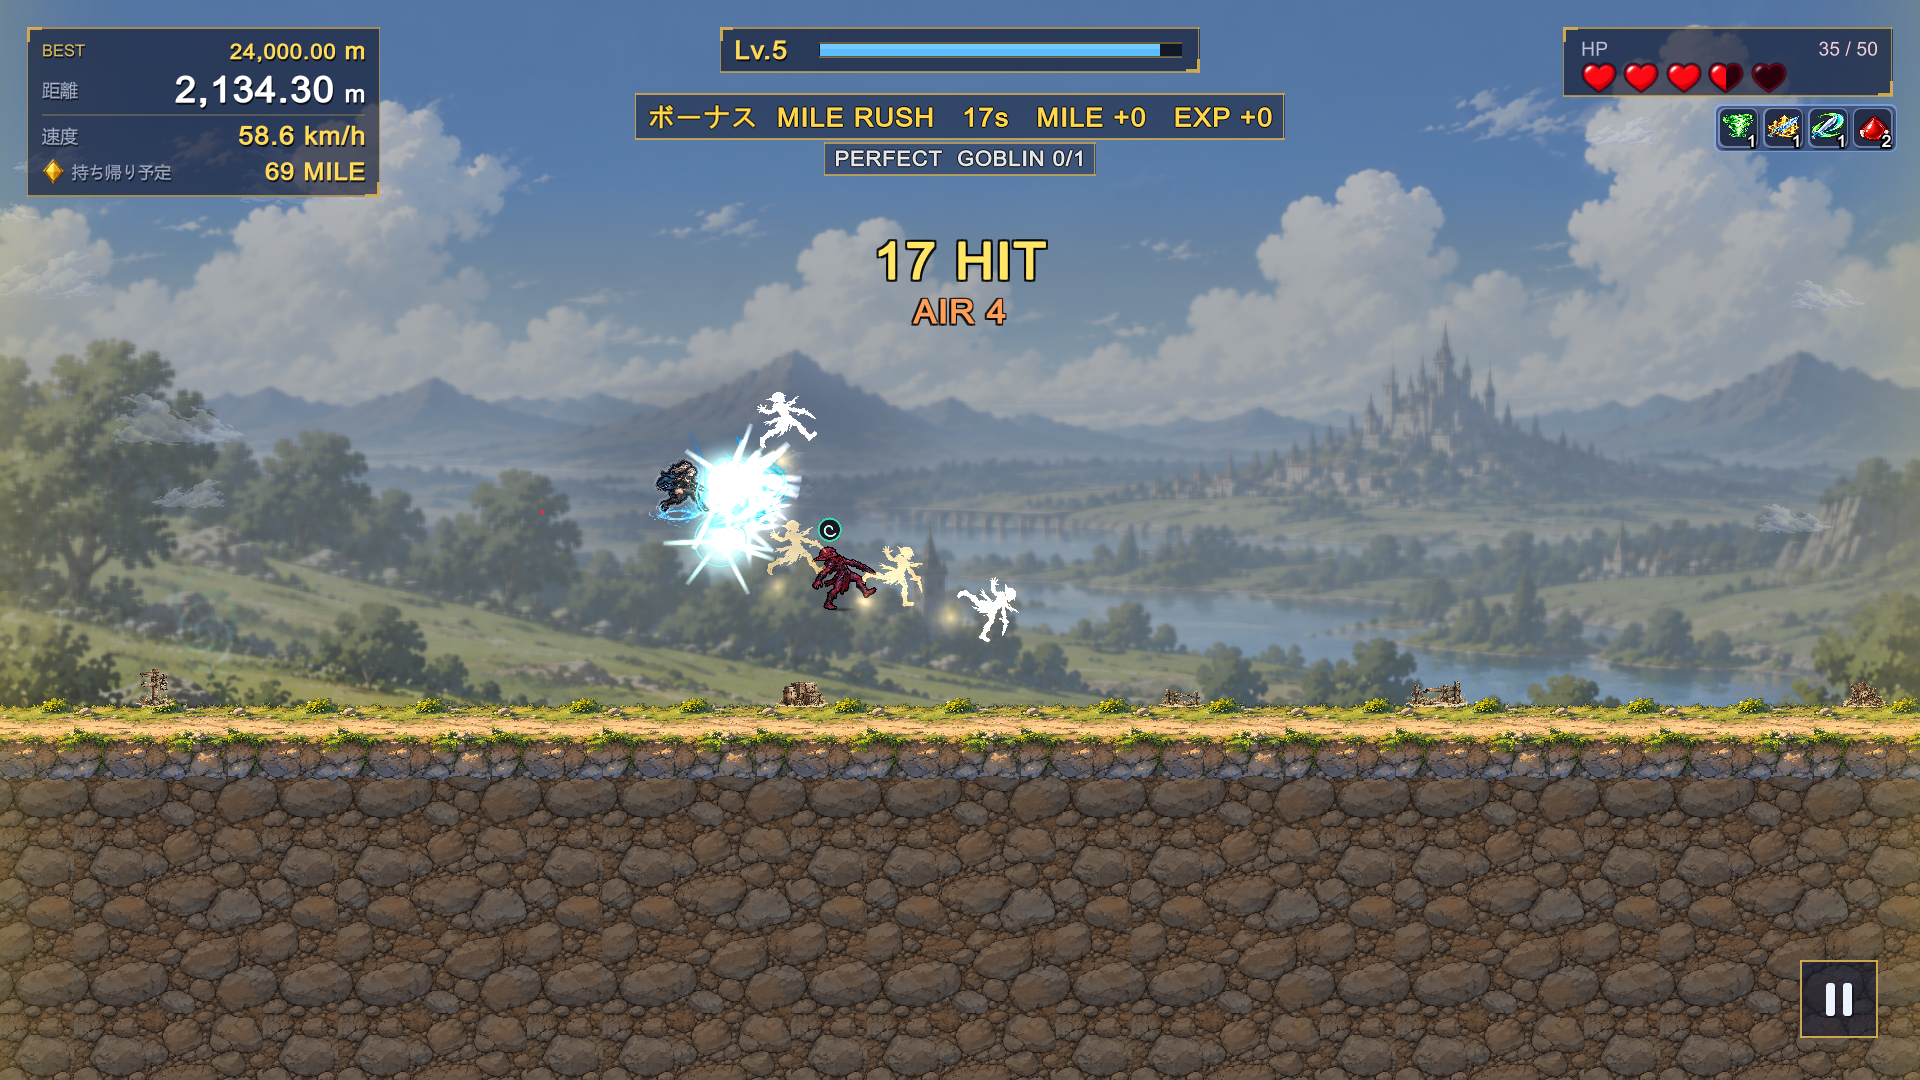
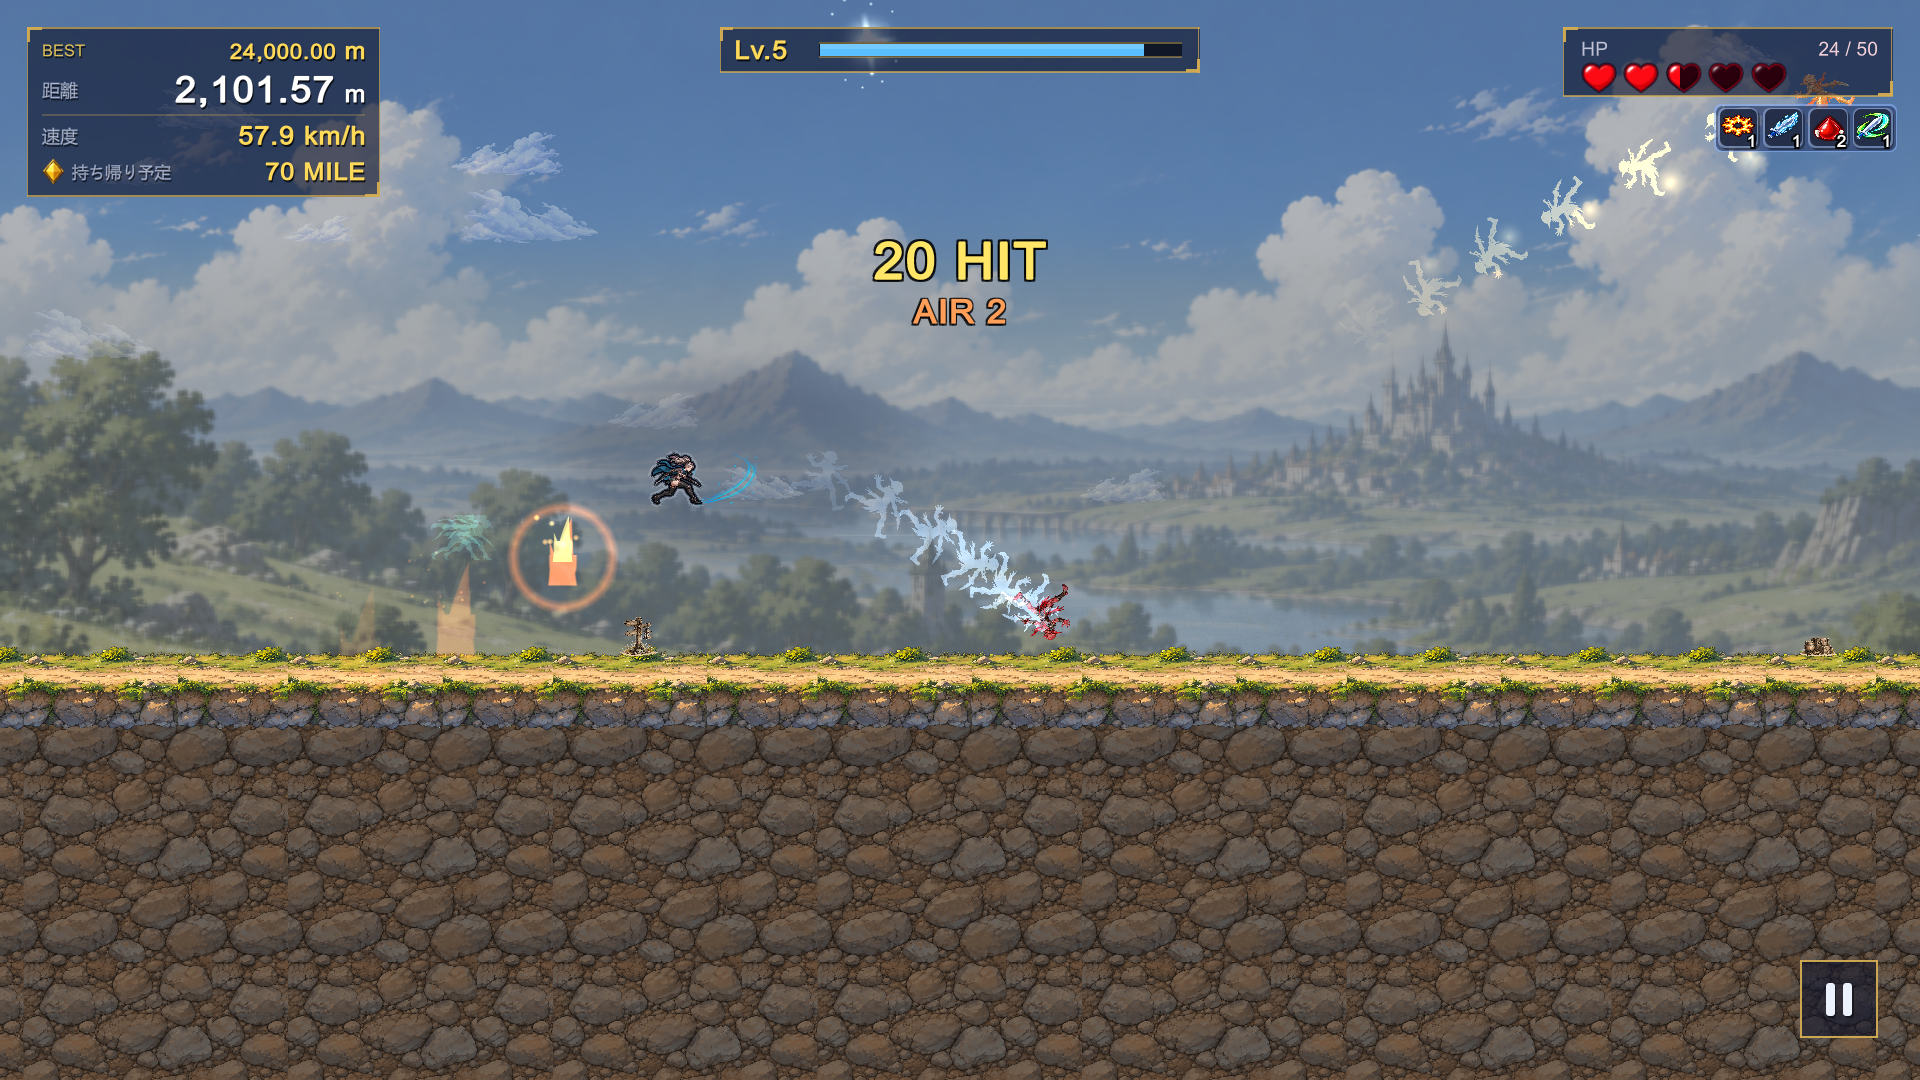
Google Play 素材 最終版の候補(第3回): 字幕の修正・BONUS の無い撮り直し・6枚目の提案
- 紹介動画: 「4方向のフリックで戦え / Swipe in four directions to fight.」、英語の脱出は Cash out を避ける(captions_gp.tsv、Steam 版の表はそのまま)。長い字幕は幅に収める(trailer.py)
- 撮影 -scNoBonus 1(BONUS ZONE を起こさない)で空中コンボと操作説明を撮り直し、スクショ3枚目も差し替え
- ショート: 英語字幕を指定どおりに、冒頭に「映像を拡大しています」、最後に「技はキャラクターによって異なります」、音を -14 LUFS に
- 6枚目は小さい表示で読みやすい RESULT を提案して差し替え(説明の画面は予備へ)
- 動画は 100MB を超えるためコミットしない(Docs/GooglePlay_2026-11-01/video に置く)

diff --git a/Tools/googleplay/short.py b/Tools/googleplay/short.py
@@ -4,6 +4,7 @@
 #  ・映像: 縦の窓(608x1080)を 4倍で撮った 2432x4320 から、キャラの周りを切り出して 1080x1920 へ(ゲームのカメラは変えない。表示の拡大だけ)
 #  ・打ち上げ/急降下は 0.6倍、空中コンボは 0.4倍のスロー(その間はゲームの音を消し、BGM だけ)
 #  ・指とフリックの矢印(gesture.py の絵)、字幕(captions_short.tsv)、最後にロゴ(タイトルと同じ TitleLogoV2)は映像に後から重ねる。ゲームには描かない
+#  ・冒頭 4 秒に「映像を拡大している」注記、最後に「技はキャラクターによって異なる」(2026-11-01 エステル/マスターのレビュー)
 #  ・音: ゲームの効果音 + BGM(権利を確認済みの自作曲)→ -14 LUFS、真のピーク -1.2 dBTP 以下(Tools/steam/finalize_audio.py)
 #   python short.py <撮影のフォルダ(out/raw と log.txt がある)> <ja|en> <出力.mp4> <作業フォルダ>
 import csv, io, os, re, subprocess, sys
@@ -39,8 +40,10 @@ def flicks(log):
 
 def caption_layer(text, sub=None):
     img = Image.new("RGBA", (OW, OH), (0, 0, 0, 0)); d = ImageDraw.Draw(img)
-    f = font(72 if len(text) <= 14 else 60)
     lines = text.split("\\n")
+    size = 72
+    while size > 40 and max(ImageDraw.Draw(img).textlength(ln, font=font(size)) for ln in lines) > OW - 140: size -= 2  # 入りきらない(英語)時は縮める
+    f = font(size)
     y = 250
     for ln in lines:
         tw = d.textlength(ln, font=f)
@@ -51,7 +54,16 @@ def caption_layer(text, sub=None):
     return img
 
 
-def end_layer(text, a):
+def note_layer(text):
+    # 冒頭に小さく出す注記(映像を拡大していること)。画面の下、暗い帯の上
+    img = Image.new("RGBA", (OW, OH), (0, 0, 0, 0)); d = ImageDraw.Draw(img); f = font(34)
+    tw = d.textlength(text, font=f)
+    d.rounded_rectangle([(OW - tw) / 2 - 22, OH - 186, (OW + tw) / 2 + 22, OH - 120], radius=12, fill=(5, 8, 20, 160))
+    d.text(((OW - tw) / 2, OH - 178), text, font=f, fill=(235, 235, 240, 255))
+    return img
+
+
+def end_layer(text, a, sub=None):
     img = Image.new("RGBA", (OW, OH), (5, 8, 20, int(200 * a)))
     logo = Image.open(LOGO).convert("RGBA")
     lw = int(OW * 0.86); lh = int(logo.height * lw / logo.width)
@@ -61,6 +73,9 @@ def end_layer(text, a):
     d = ImageDraw.Draw(img); f = font(64)
     tw = d.textlength(text, font=f)
     d.text(((OW - tw) / 2, int(OH * 0.36) + lh // 2 + 70), text, font=f, fill=(255, 255, 255, int(255 * a)), stroke_width=4, stroke_fill=(10, 12, 24, int(255 * a)))
+    if sub:  # 2026-11-01: 技はキャラクターによって異なる、を短く小さく
+        fs = font(38); sw = d.textlength(sub, font=fs)
+        d.text(((OW - sw) / 2, int(OH * 0.36) + lh // 2 + 190), sub, font=fs, fill=(225, 225, 232, int(235 * a)))
     return img
 
 
@@ -124,11 +139,16 @@ def main():
         key = next((k for a, b, k in starts if a <= tt < b), "end")
         if key == "end":
             a0 = next(a for a, b, k in starts if k == "end")
-            img.alpha_composite(end_layer(T("cap_end"), min(1.0, (tt - a0) / 0.5)))
+            img.alpha_composite(end_layer(T("cap_end"), min(1.0, (tt - a0) / 0.5), T("cap_moves")))
         else:
             ck = {"run": "cap_run", "fwd": "cap_fwd", "back": "cap_back", "up": "cap_up", "combo": "cap_combo", "down": "cap_down"}[key]
             if ck not in cap_cache: cap_cache[ck] = caption_layer(T(ck))
             img.alpha_composite(cap_cache[ck])
+            if tt < 4.0:  # 冒頭の 4 秒: 映像を拡大している旨
+                if "note" not in cap_cache: cap_cache["note"] = note_layer(T("cap_zoom"))
+                nl = cap_cache["note"]
+                if tt > 3.5: nl = nl.copy(); nl.putalpha(nl.getchannel("A").point(lambda v, f=(4.0 - tt) / 0.5: int(v * f)))
+                img.alpha_composite(nl)
             for d, gt in gestures:
                 if gt is None: continue
                 k = int((tt - gt) * FPS)
@@ -146,9 +166,17 @@ def main():
         else: af.append(f"anullsrc=r=48000:cl=stereo,atrim=duration={(b - a) / sp:.4f}[a{i}]")
     af.append("".join(f"[a{i}]" for i in range(len(segs))) + f"concat=n={len(segs)}:v=0:a=1,aformat=sample_rates=48000:channel_layouts=stereo[se]")
     af.append(f"[2:a]atrim=duration={total:.3f},volume=0.36,afade=t=in:d=0.2,afade=t=out:st={total - 1.6:.3f}:d=1.6,aformat=sample_rates=48000:channel_layouts=stereo[bgm]")
-    af.append("[se][bgm]amix=inputs=2:normalize=0,loudnorm=I=-14:TP=-2:LRA=11[aout]")
     mix = os.path.join(work, f"mix_{lang}.wav")
-    subprocess.run([FF, "-y", "-loglevel", "error", "-i", base, "-i", raw + ".wav", "-stream_loop", "-1", "-i", BGM, "-filter_complex", ";".join(af), "-map", "[aout]", "-ar", "48000", mix], check=True)
+    # 音の大きさ: 紹介動画(trailer.py)と同じく、測ってから全体の音量を上げ下げ → 4倍の細かさで見るリミッター(-14 LUFS に合わせる)
+    def render_mix(gain_db):
+        chain = af + [f"[se][bgm]amix=inputs=2:normalize=0,volume={gain_db:.2f}dB,aresample=192000,alimiter=limit=0.79:attack=1:release=60:level=false,aresample=48000[aout]"]
+        subprocess.run([FF, "-y", "-loglevel", "error", "-i", base, "-i", raw + ".wav", "-stream_loop", "-1", "-i", BGM, "-filter_complex", ";".join(chain), "-map", "[aout]", "-ar", "48000", mix], check=True)
+        r = subprocess.run([FF, "-hide_banner", "-i", mix, "-af", "ebur128=framelog=quiet", "-f", "null", "-"], capture_output=True, text=True, encoding="utf-8", errors="replace")
+        return float(r.stderr[r.stderr.rindex("Summary:"):].split("I:")[1].split("LUFS")[0])
+    g = 0.0
+    for _ in range(3):
+        g += -14.0 - render_mix(g)
+    print(f"[short] mix gain {g:.2f} dB -> {render_mix(g):.2f} LUFS")
 
     # 4) 合わせる
     tmp = os.path.join(work, f"short_{lang}_tmp.mp4")

diff --git a/Unity/2ndAction/Assets/Scripts/QaSweep.StoreCapture.cs b/Unity/2ndAction/Assets/Scripts/QaSweep.StoreCapture.cs
@@ -51,6 +51,9 @@ public partial class QaSweep
         // 2026-11-01 Google Play の動画: 画面情報の表示モード(-scHud simple|standard)。撮影用の保存にだけ書く
         string hud = Arg("-scHud", "");
         if (hud == "simple") HudPrefs.SetMode(HudPrefs.Mode.Simple); else if (hud == "standard") HudPrefs.SetMode(HudPrefs.Mode.Standard);
+        // 2026-11-01 Google Play の最終版(エステルのレビュー): -scNoBonus 1 = この撮影では BONUS ZONE を自然発生させない
+        //  (空中コンボ/操作説明の場面に BONUS の帯が写らないように。BONUS が起きない区間は通常のプレイでもある = 仕様は変えない)
+        if (Arg("-scNoBonus", "0") == "1") { BonusZone.BlockedAt = _ => true; L("[capture] bonus zones blocked for this capture"); }
         L($"[capture] screen {Screen.width}x{Screen.height} lang={Loc.Current} debugBuild={Debug.isDebugBuild} devGate={DevGate.On} audio {AudioSettings.outputSampleRate}Hz {AudioSettings.speakerMode}");
         if (Screen.height > Screen.width) L($"[capture] portrait window {Screen.width}x{Screen.height} (video x{Arg("-scVideoSuper", "1")})"); // 2026-11-01 操作説明ショート(縦)
         else Check(Screen.width == 1920 && Screen.height == 1080, $"the screen is 1920x1080 (got {Screen.width}x{Screen.height})");

diff --git a/Tools/steam/trailer.py b/Tools/steam/trailer.py
@@ -52,6 +52,9 @@ def caption_png(text, path, pos="bottom"):
     f = font(80)  # 2026-10-23 エステル: Steam の小さい再生画面(600px 前後)でも読める大きさに(64 → 80)
     d = ImageDraw.Draw(img)
     x, y = 96, H - 196
+    tw = d.textlength(text, font=f)
+    if tw > W - 2 * x:  # 2026-11-01: 画面の幅に入りきらない長い字幕(英語)だけ、入る大きさまで縮める
+        f = font(int(80 * (W - 2 * x) / tw))
     if pos == "band":
         # 2026-10-24 エステル: 設定の画面の上に出す字幕は、位置は同じ(左下)のまま、字幕の後ろに濃い帯を敷く(字の高さ+上下 12〜16px)
         l, t, r, b2 = d.textbbox((x, y), text, font=f, stroke_width=5)

diff --git a/Docs/GooglePlay_2026-11-01/round3/for_estelle_round3.md b/Docs/GooglePlay_2026-11-01/round3/for_estelle_round3.md
@@ -1,0 +1,74 @@
+# エステルへ: Google Play 素材 最終版の候補(レビュー第3回、2026-11-01 夜)
+
+第2回のレビュー(マスターとエステルの指定)を反映した、最終版の候補です。ゲーム画面と操作の仕様は変えていません。変えたのは、撮影の場面の選び方と字幕だけです。公開は保留のままです。
+
+## 1. 紹介動画 40秒(横 1920x1080・60fps)
+- 動画: `Docs/GooglePlay_2026-11-01/video/omm_gp_promo40_final_{ja,en}.mp4`
+  - 確認用の軽い版(30fps): `..._review.mp4`
+- 2秒ごとの一覧: `promo40_grid_ja.jpg` / `promo40_grid_en.jpg`
+- 全体の構成と尺(40.0秒)は第2回のままです。
+- 変えた所:
+  - 4方向の字幕: 「4方向のフリックで戦え」/「Swipe in four directions to fight.」
+  - 脱出の英語の字幕: 「Escape with your rewards—or run one more mile?」(Cash out は使いません)
+    - 画面の幅に入りきらないので、この字幕だけ文字を少し小さくしています。
+  - 空中コンボの場面: BONUS ZONE の帯が写らない撮影に差し替えました。
+    - 撮影の時だけ BONUS ZONE を起こさない設定にしています。BONUS が起きない区間は通常のプレイでもあります。
+    - 日本語は 20 HIT、英語は 16 HIT まで写っています。
+- 字幕の表は `video/captions_gp.tsv` です。Steam 版の表(エステル採用)を写して、上の2つだけ変えました。Steam 版の表は変えていません。
+- そのほか(字幕・BGM・ロゴ・HUD の使い分け)は第2回のままです。
+- 音の大きさ: -14.1 LUFS、真のピーク(日)-1.5 / (英)-1.8 dBTP
+
+## 2. 操作説明ショート 20.2秒(縦 1080x1920・60fps)
+- 動画: `video/omm_gp_short20_final_{ja,en}.mp4`(軽い版は `_review.mp4`)
+- 一覧: `short_grid_ja.jpg` / `short_grid_en.jpg`
+- 長さは 20.2秒のままです。
+- 英語の字幕は、指定どおりに統一しました。
+
+  | 秒 | 英語 |
+  |---|---|
+  | 0〜2 | Your character runs automatically. |
+  | 2〜5 | Swipe forward: Attack ahead |
+  | 5〜7 | Swipe back: Attack behind |
+  | 7〜9 | Swipe up: Jump / Launch enemies |
+  | 9〜14 | Keep hitting to build combos |
+  | 14〜17 | Swipe down: Dive while airborne |
+  | 17〜20 | How far will you go? |
+
+- 追加したこと:
+  - 最後のロゴの下に、小さく「技はキャラクターによって異なります / Moves vary by character.」
+  - 冒頭の4秒、画面の下に小さく「※操作説明のため、映像を拡大しています / Footage zoomed in to show the controls」(**英語は仮訳**)
+  - BONUS の表示(英語の BONUS MIMIC BASH を含む)が写らない撮影に、日英とも差し替えました。
+- 音の大きさ: -14.0〜-14.2 LUFS(第2回の -15.3 から、紹介動画と同じ大きさにそろえました)、真のピーク -1.4〜-1.6 dBTP
+
+## 3. スクリーンショット(日英 8枚)
+- 一覧: `GooglePlay/StoreScreenshots_2026-11-01/contact_sheet_landscape_{ja,en}.jpg`
+
+| # | 状態 |
+|---|---|
+| 1, 2, 4, 5, 7 | 第1回のまま(採用) |
+| 3 空中コンボ | BONUS の帯が無い撮り直しに差し替え(日: 20 HIT / AIR 2、英: 15 HIT / AIR 4)。変更前後: `compare_03_aerial.jpg` |
+| 6 脱出 | **提案: RESULT「脱出成功! / ESCAPED!」に差し替え**(下の説明) |
+| 8 キャラ選択 | 第2回の Android 版の幻想画(採用) |
+
+### 6枚目の提案
+- 比較: `compare_06_small.jpg`(Google Play の小さい表示に近い幅 480px / 320px で並べた物)
+- 説明の画面(A)は、幅 320px では本文がほとんど読めません。目に入るのは小さい見出しと板の形だけです。
+- RESULT(B)は、幅 320px でも次が読めます。
+  - 「脱出成功! / ESCAPED!」
+  - 距離「30,827 m」
+  - 持ち帰った「+1,019 / +1,013 MILE」
+  - 強化カードの並び
+- 「走って、持ち帰る」がひと目で伝わるので、**B を提案します**。いまは B を `06_EscapeResult.png` に入れてあります。
+- A は `landscape/{ja,en}_alt/alt_EscapeGuide.png` に残してあり、すぐ戻せます。
+
+## 4. 確認してほしい所
+1. 6枚目を B(RESULT)にしてよいか。
+2. ショート冒頭の注記の英語(仮訳)「Footage zoomed in to show the controls」。
+3. 最終版として、この4本(日英の紹介動画とショート)でよいか。
+
+## 5. 再生について
+- 4本とも、一般的な再生環境でそのまま再生できる形式です(H.264 / AAC / yuv420p、faststart)。
+- 紹介動画は1本約 110MB で、GitHub の1ファイルの上限(100MB)を超えます。そのためリポジトリには入れていません。
+  - マスターの PC の `C:\GameProject\2ndAction\Docs\GooglePlay_2026-11-01\video` にあります。
+  - 30MB 前後の `_review.mp4` もあります。
+- 第2回の仮編集は `video/draft1/` に移しました。
